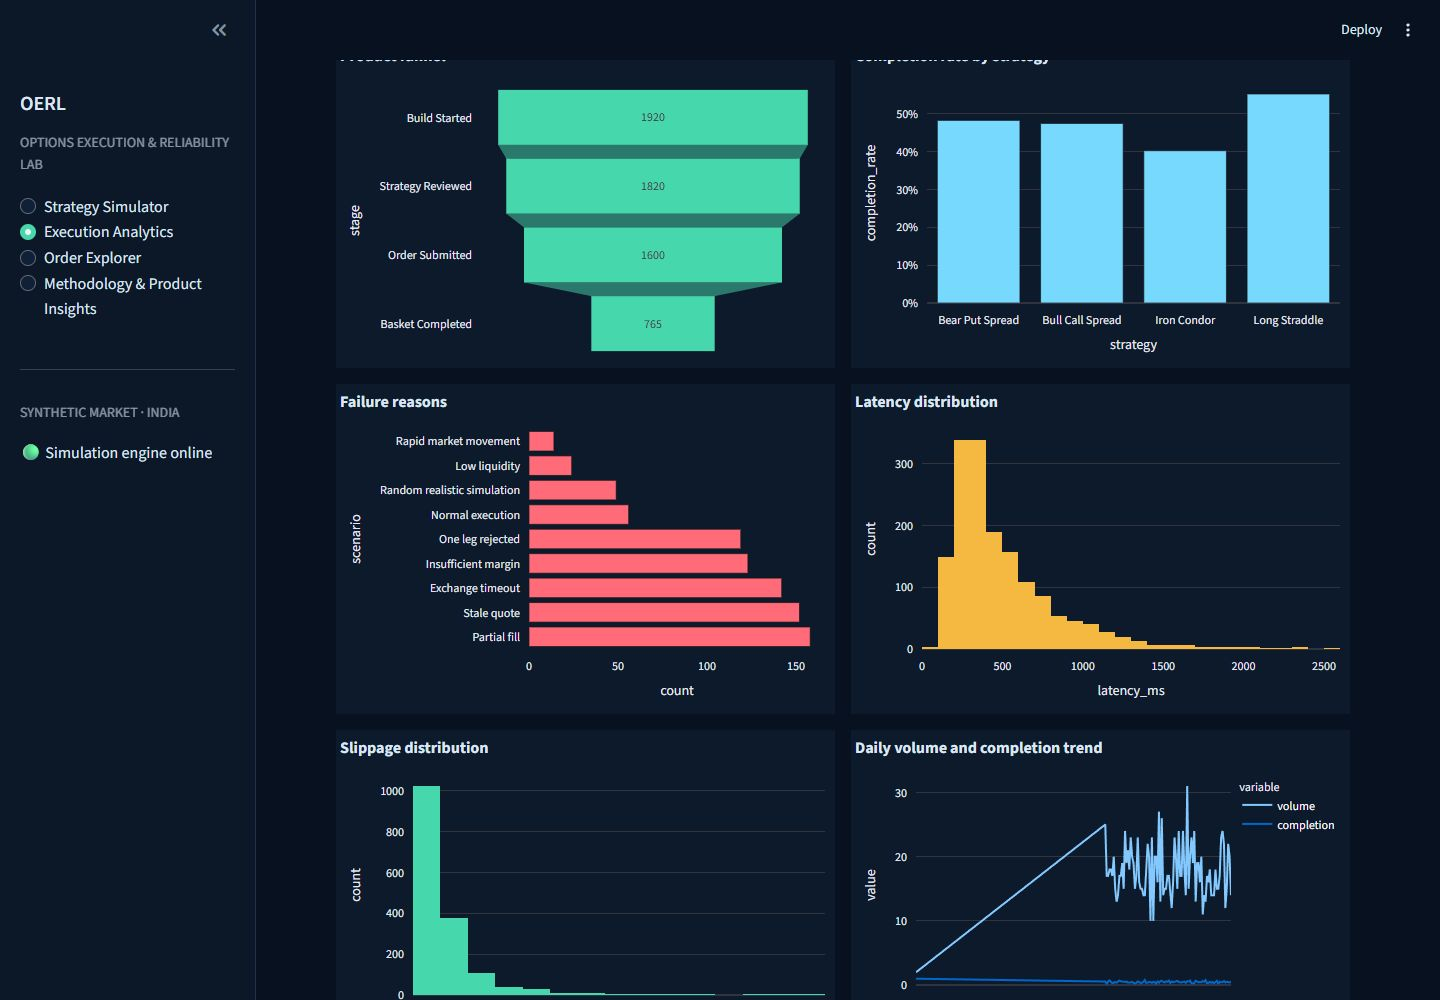
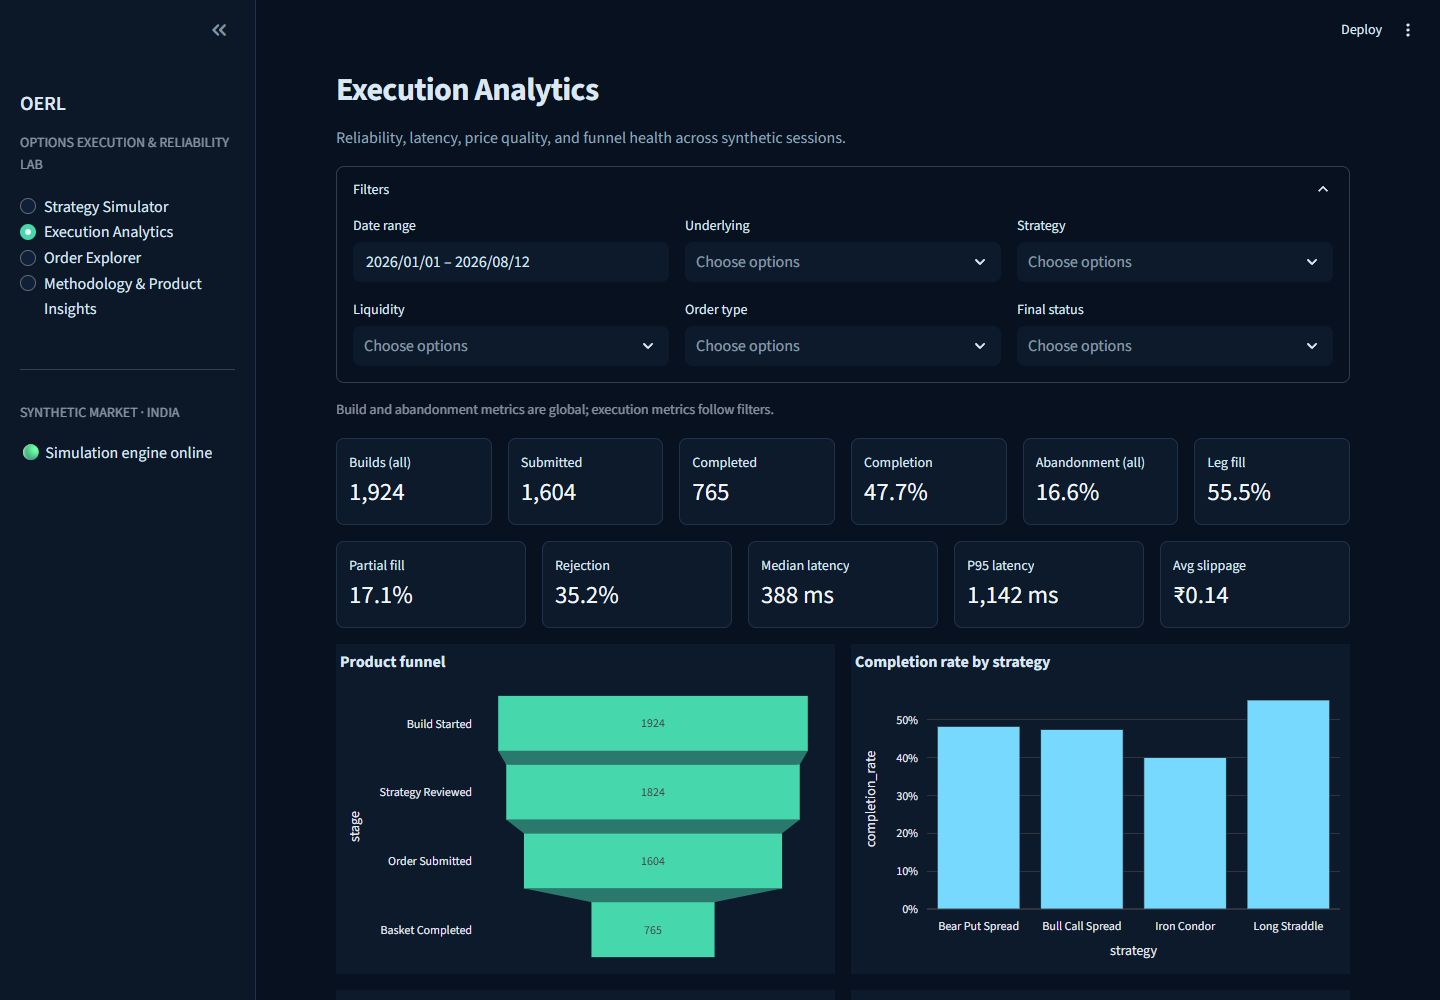
fix: align analytics funnel and KPI scope

diff --git a/src/ui/analytics_page.py b/src/ui/analytics_page.py
@@ -48,29 +48,32 @@ def render():
         (global_k["strategy_builds_started"], submitted_builds),
     )
     cards = [
-        ("Builds", k["strategy_builds_started"], None),
+        ("Builds (all)", k["strategy_builds_started"], None),
         ("Submitted", k["orders_submitted"], None),
         ("Completed", k["completed_orders"], None),
         ("Completion", k["basket_completion_rate"], "pct"),
-        ("Abandonment", k["abandonment_rate"], "pct"),
+        ("Abandonment (all)", k["abandonment_rate"], "pct"),
+        ("Leg fill", k["leg_fill_rate"], "pct"),
         ("Partial fill", k["partial_fill_rate"], "pct"),
         ("Rejection", k["rejection_rate"], "pct"),
         ("Median latency", k["median_latency_ms"], "ms"),
         ("P95 latency", k["p95_latency_ms"], "ms"),
         ("Avg slippage", k["average_slippage"], "rupee"),
     ]
-    cols = st.columns(5)
-    for i, (label, value, fmt) in enumerate(cards):
-        cols[i % 5].metric(
-            label,
-            f"{value:.1%}"
-            if fmt == "pct"
-            else f"{value:,.0f} ms"
-            if fmt == "ms"
-            else f"₹{value:.2f}"
-            if fmt == "rupee"
-            else f"{value:,}",
-        )
+    st.caption("Build and abandonment metrics are global; execution metrics follow filters.")
+    for row in (cards[:6], cards[6:]):
+        cols = st.columns(len(row))
+        for col, (label, value, fmt) in zip(cols, row, strict=True):
+            col.metric(
+                label,
+                f"{value:.1%}"
+                if fmt == "pct"
+                else f"{value:,.0f} ms"
+                if fmt == "ms"
+                else f"₹{value:.2f}"
+                if fmt == "rupee"
+                else f"{value:,}",
+            )
     if filtered.empty:
         st.warning("No orders match these filters.")
         return

diff --git a/src/database/db.py b/src/database/db.py
@@ -1,7 +1,7 @@
 from contextlib import contextmanager
 from pathlib import Path
 
-from sqlalchemy import create_engine
+from sqlalchemy import create_engine, select
 from sqlalchemy.orm import DeclarativeBase, sessionmaker
 
 DB_PATH = Path(__file__).resolve().parents[2] / "data" / "lab.db"
@@ -16,8 +16,27 @@ class Base(DeclarativeBase):
 
 def init_db():
     from src.database import tables  # noqa: F401
+    from src.database.tables import BasketOrder, StrategyBuild
 
     Base.metadata.create_all(engine)
+    with SessionLocal() as session:
+        missing = session.scalars(select(BasketOrder).where(BasketOrder.build_id.is_(None))).all()
+        for order in missing:
+            build_id = f"build-{order.order_id}"
+            if session.get(StrategyBuild, build_id) is None:
+                session.add(
+                    StrategyBuild(
+                        build_id=build_id,
+                        session_id=order.session_id,
+                        timestamp=order.created_at,
+                        strategy=order.strategy,
+                        underlying=order.underlying,
+                        reviewed=True,
+                        submitted=True,
+                    )
+                )
+            order.build_id = build_id
+        session.commit()
 
 
 @contextmanager

diff --git a/src/services/orders.py b/src/services/orders.py
@@ -1,7 +1,13 @@
 from sqlalchemy import select
 
 from src.database.db import session_scope
-from src.database.tables import AccountSnapshot, BasketOrder, ExecutionEventRow, OrderLeg
+from src.database.tables import (
+    AccountSnapshot,
+    BasketOrder,
+    ExecutionEventRow,
+    OrderLeg,
+    StrategyBuild,
+)
 
 
 def save_simulation(result, request, build_id=None):
@@ -9,6 +15,19 @@ def save_simulation(result, request, build_id=None):
     with session_scope() as db:
         if db.get(BasketOrder, result.order_id):
             return result.order_id
+        if build_id is None:
+            build_id = f"build-{result.order_id}"
+            db.add(
+                StrategyBuild(
+                    build_id=build_id,
+                    session_id=request.session_id,
+                    timestamp=result.created_at.replace(tzinfo=None),
+                    strategy=result.strategy,
+                    underlying=result.underlying,
+                    reviewed=True,
+                    submitted=True,
+                )
+            )
         funds = request.available_margin + request.pledged_collateral * 0.8
         db.add(
             BasketOrder(

diff --git a/tests/test_api_db.py b/tests/test_api_db.py
@@ -2,7 +2,8 @@ from fastapi.testclient import TestClient
 from sqlalchemy import inspect
 
 from src.api.main import app
-from src.database.db import engine, init_db
+from src.database.db import engine, init_db, session_scope
+from src.database.tables import StrategyBuild
 from src.domain.models import Scenario
 
 
@@ -31,6 +32,8 @@ def test_api_simulation(request_factory):
     req = request_factory(scenario=Scenario.NORMAL)
     response = TestClient(app).post("/simulations", json=req.model_dump(mode="json"))
     assert response.status_code == 200 and response.json()["final_status"] == "COMPLETED"
+    with session_scope() as db:
+        assert db.get(StrategyBuild, f"build-{response.json()['order_id']}") is not None
 
 
 def test_missing_order_404():
